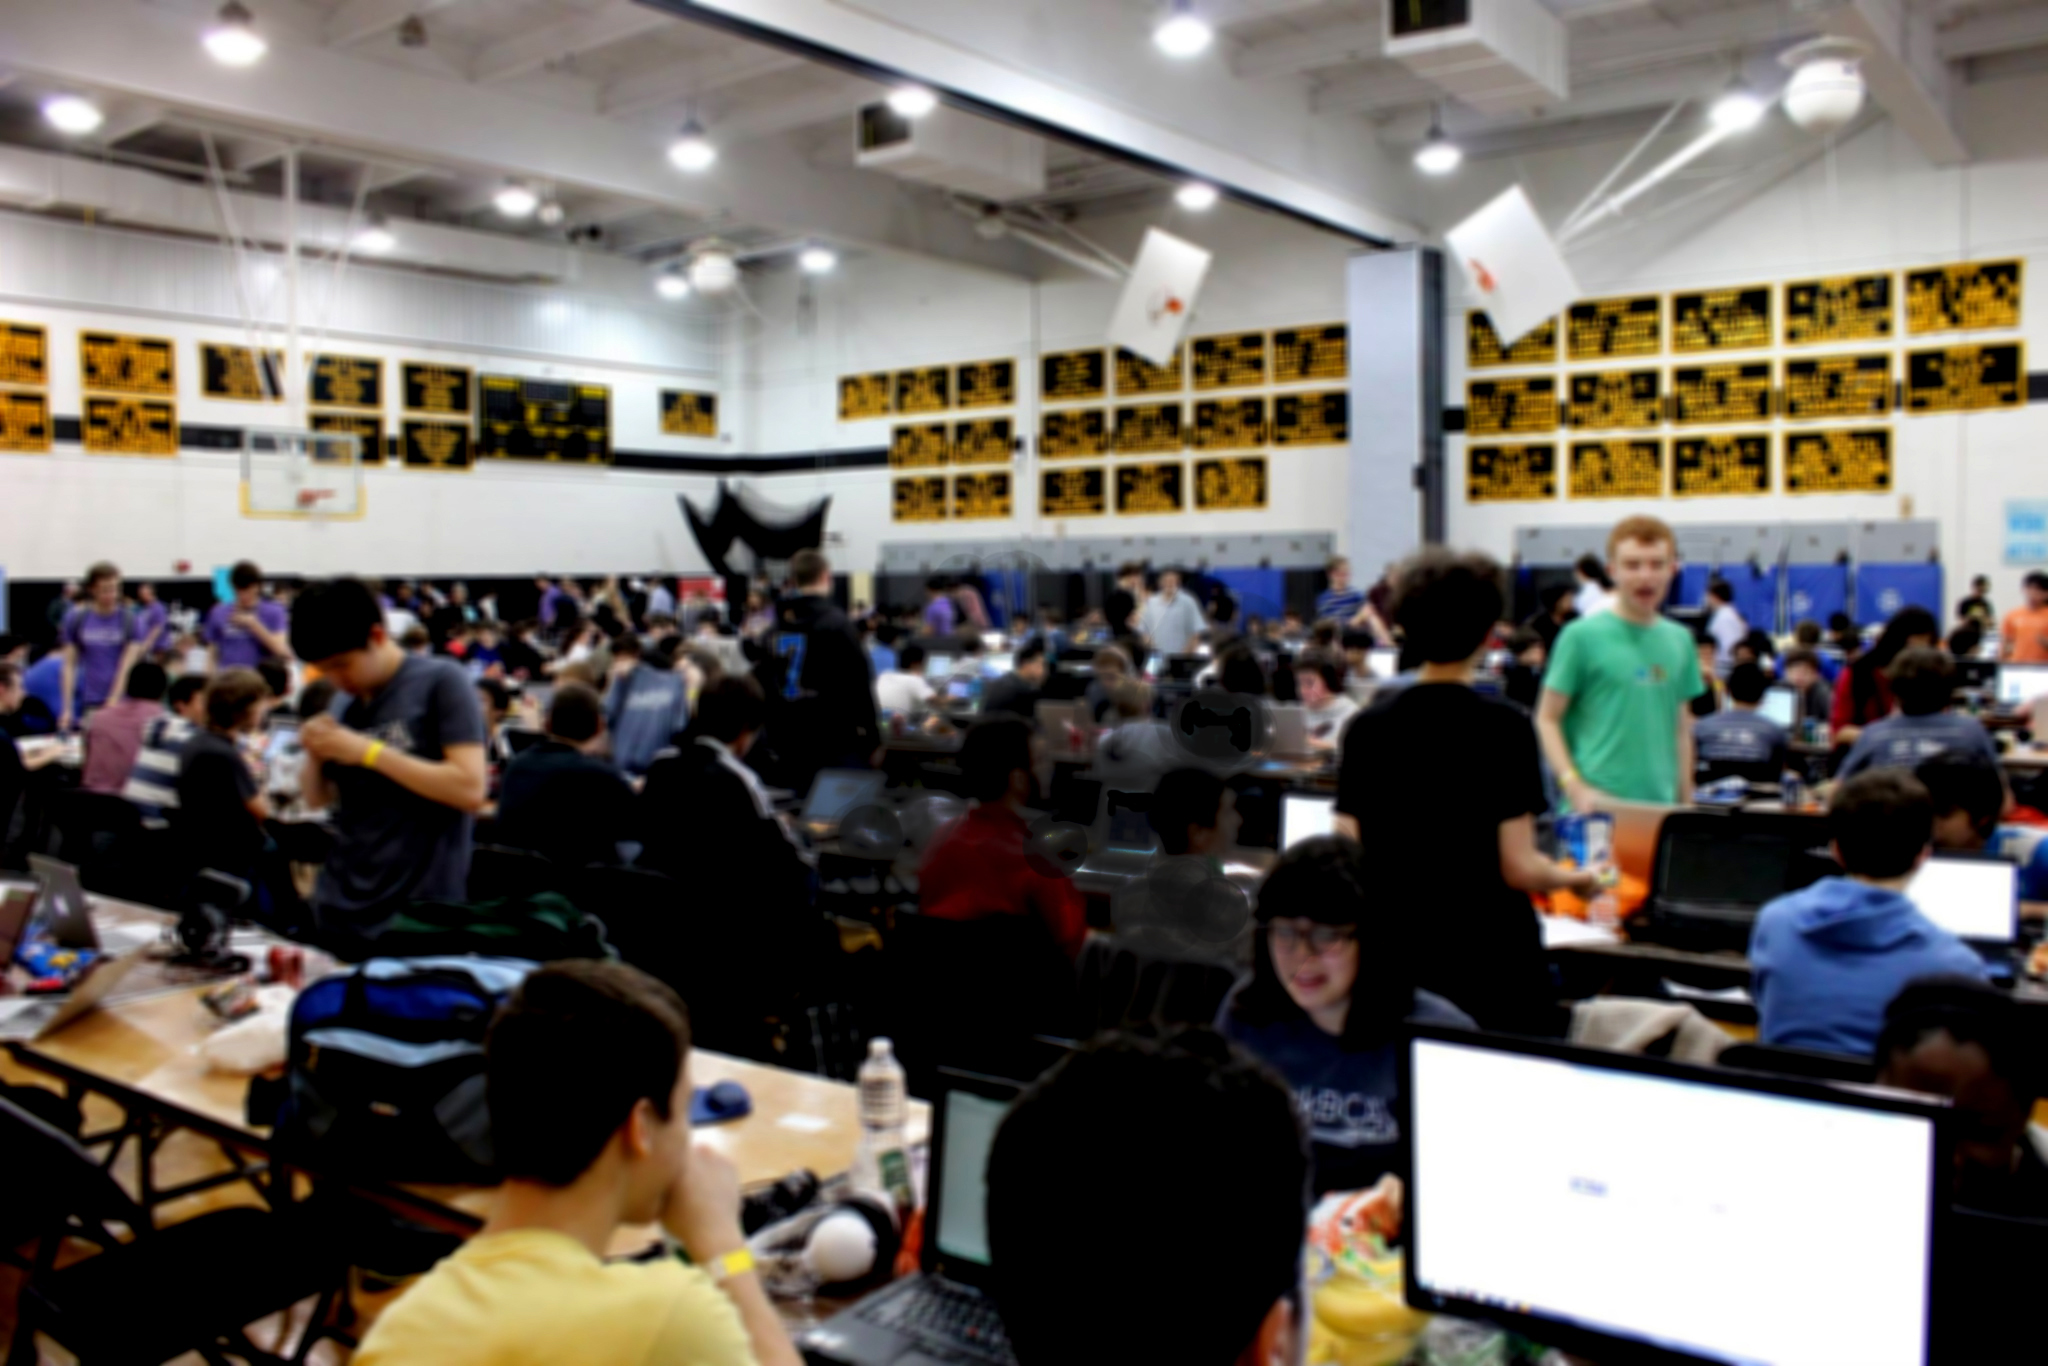
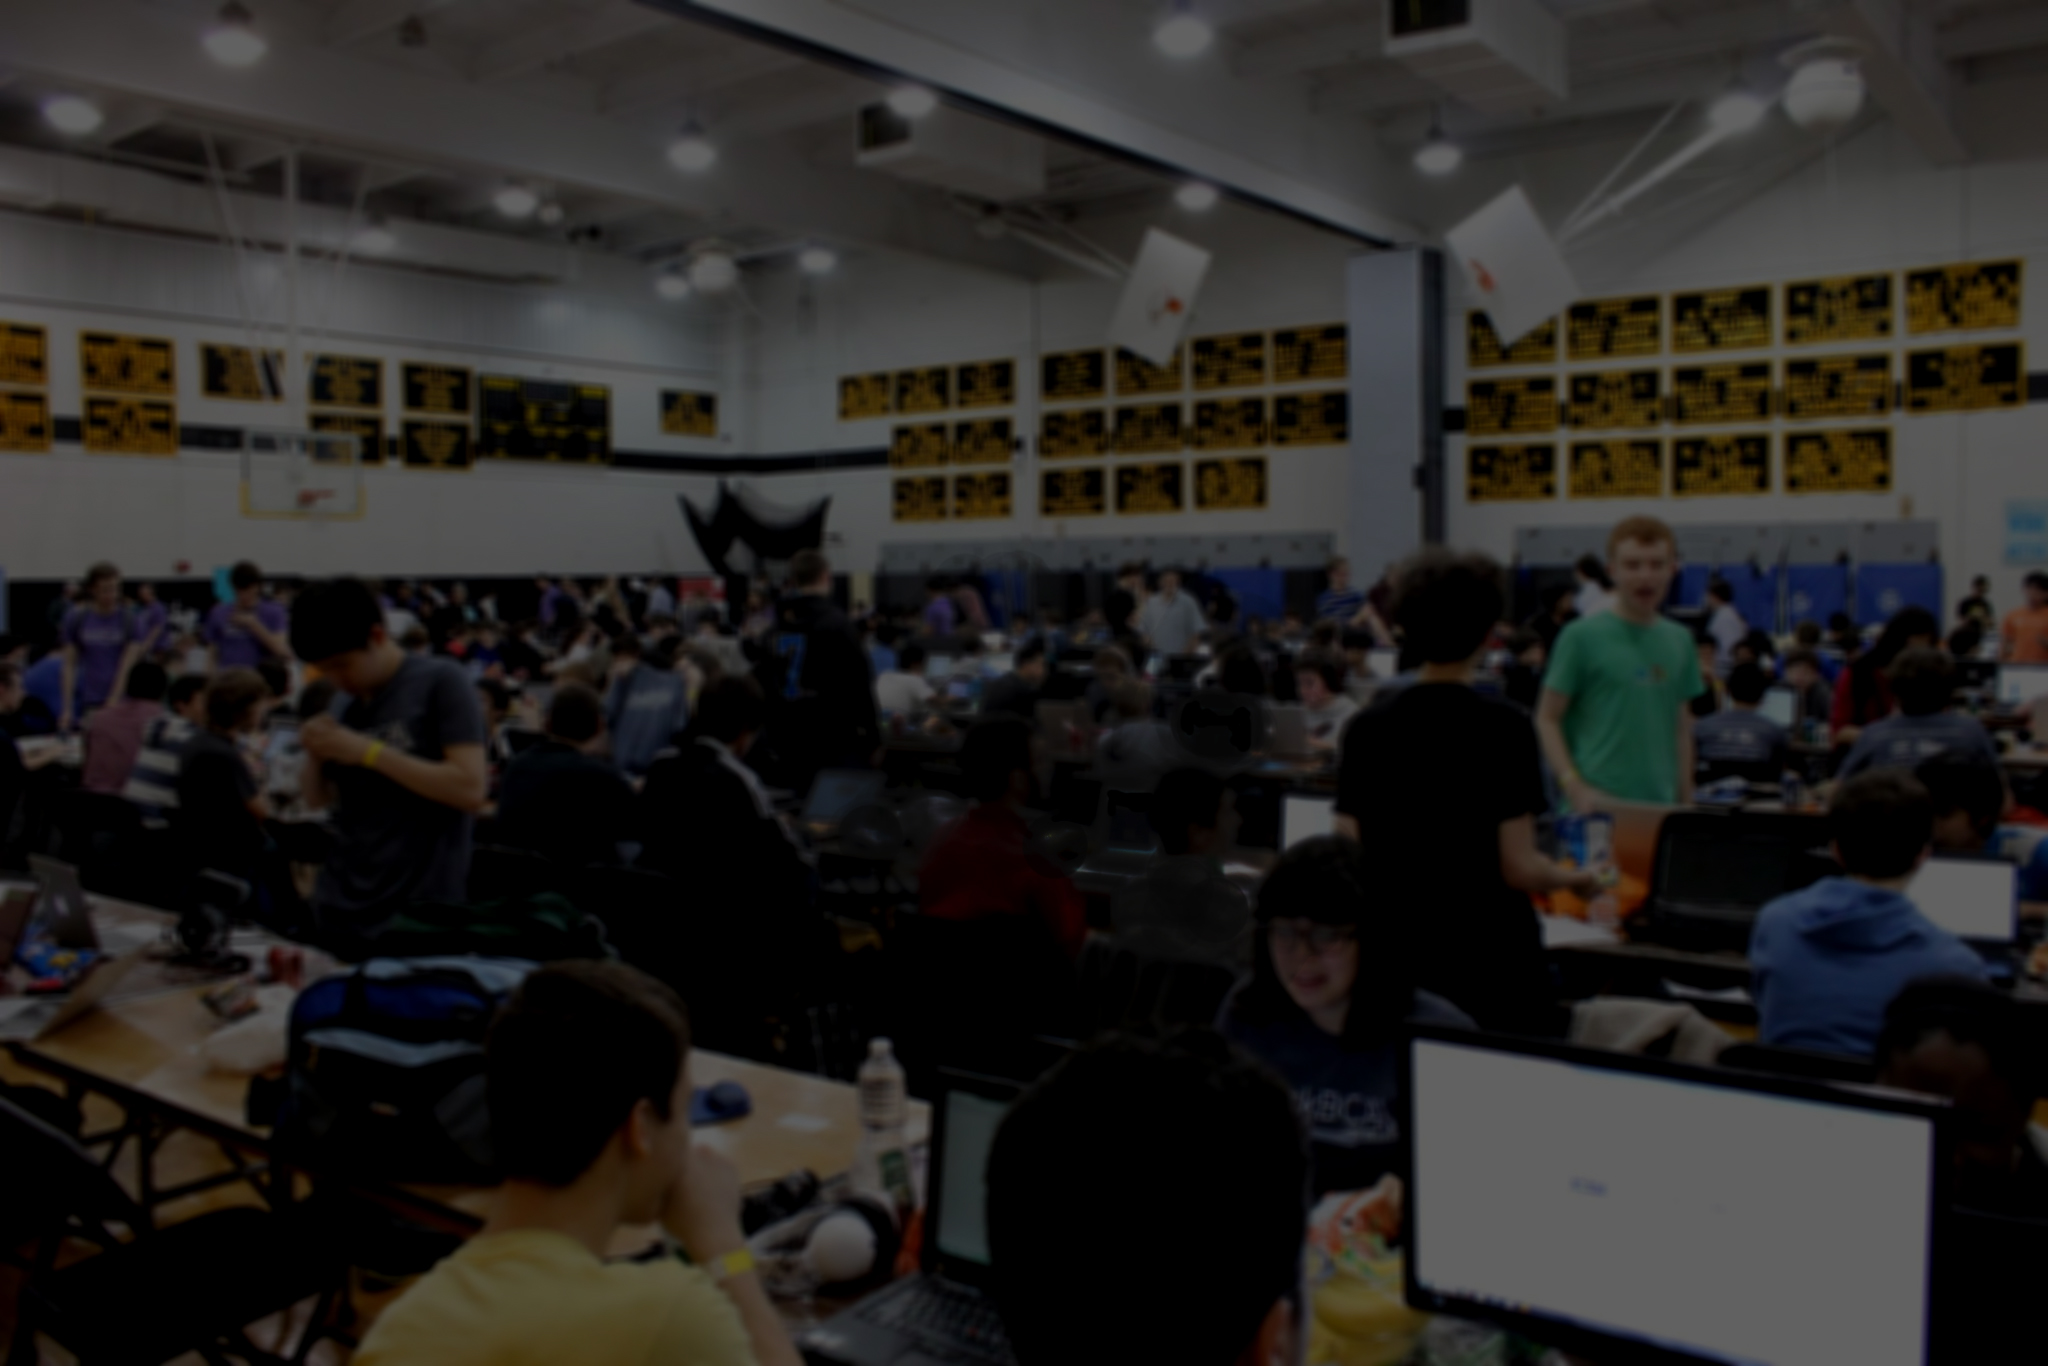
Background redo

diff --git a/index.html b/index.html
@@ -4,7 +4,7 @@
     <head>
         <title>hackBCA</title>
 
-        <meta name="viewport" content="width=device-width, initial-scale=1, user-scalable=no"> 
+        <meta name="viewport" content="initial-scale=1, maximum-scale=1">
         <link href="https://maxcdn.bootstrapcdn.com/font-awesome/4.2.0/css/font-awesome.min.css" rel="stylesheet">
         <script src="https://ajax.googleapis.com/ajax/libs/jquery/1.11.1/jquery.min.js"></script>
         <link rel="stylesheet" href="http://yui.yahooapis.com/pure/0.5.0/pure-min.css">
@@ -27,7 +27,7 @@
         <link rel="shortcut icon" href="static/comingsoon/images/favicon.ico" type="image/ico" />
     </head>
     <body>
-        <div id="background"></div>
+        <!-- <div id="background"></div> -->
         <div id="cover">
             <div id="container">
                 <div id="content">

diff --git a/css/styles.css b/css/styles.css
@@ -48,8 +48,7 @@ a {
   right: 0;
   width: 100%;
   height: 100%;
-  background: url(../images/bg.jpg) no-repeat bottom center scroll;
-  background-size: cover;
+  
   filter: brightness(35%);
   -webkit-filter: brightness(35%);
   -moz-filter: brightness(35%);
@@ -58,10 +57,19 @@ a {
 
 #cover {
   display: table;
-  z-indx: 0;
+  z-index: 0;
   width: 100%;
   height: 100%;
-  color: #FFF; }
+  color: #FFF; 
+
+
+    background: url(../images/bg.jpg) no-repeat bottom center scroll;
+  background-size: cover;
+  -webkit-background-size: cover;
+    -moz-background-size: cover;
+    background-size: cover;
+    -o-background-size: cover;
+}
   #cover #container {
     display: table-cell;
     vertical-align: middle; }

diff --git a/css/styles.scss b/css/styles.scss
@@ -67,6 +67,10 @@ a {
     
     background: url(../images/bg.jpg) no-repeat bottom center scroll;
     background-size: cover;
+    -webkit-background-size: cover;
+    -moz-background-size: cover;
+    background-size: cover;
+    -o-background-size: cover;
     filter: brightness(35%);
     -webkit-filter: brightness(35%);
     -moz-filter: brightness(35%);
